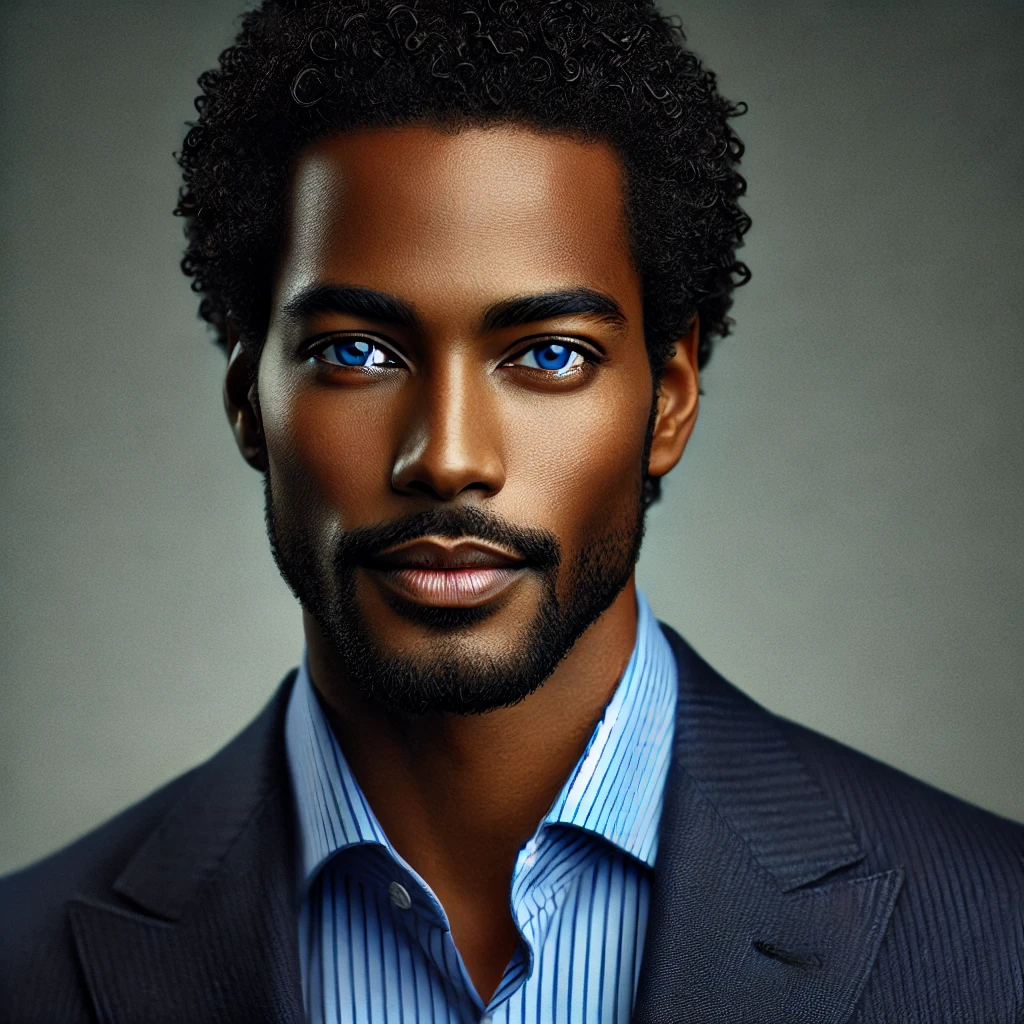
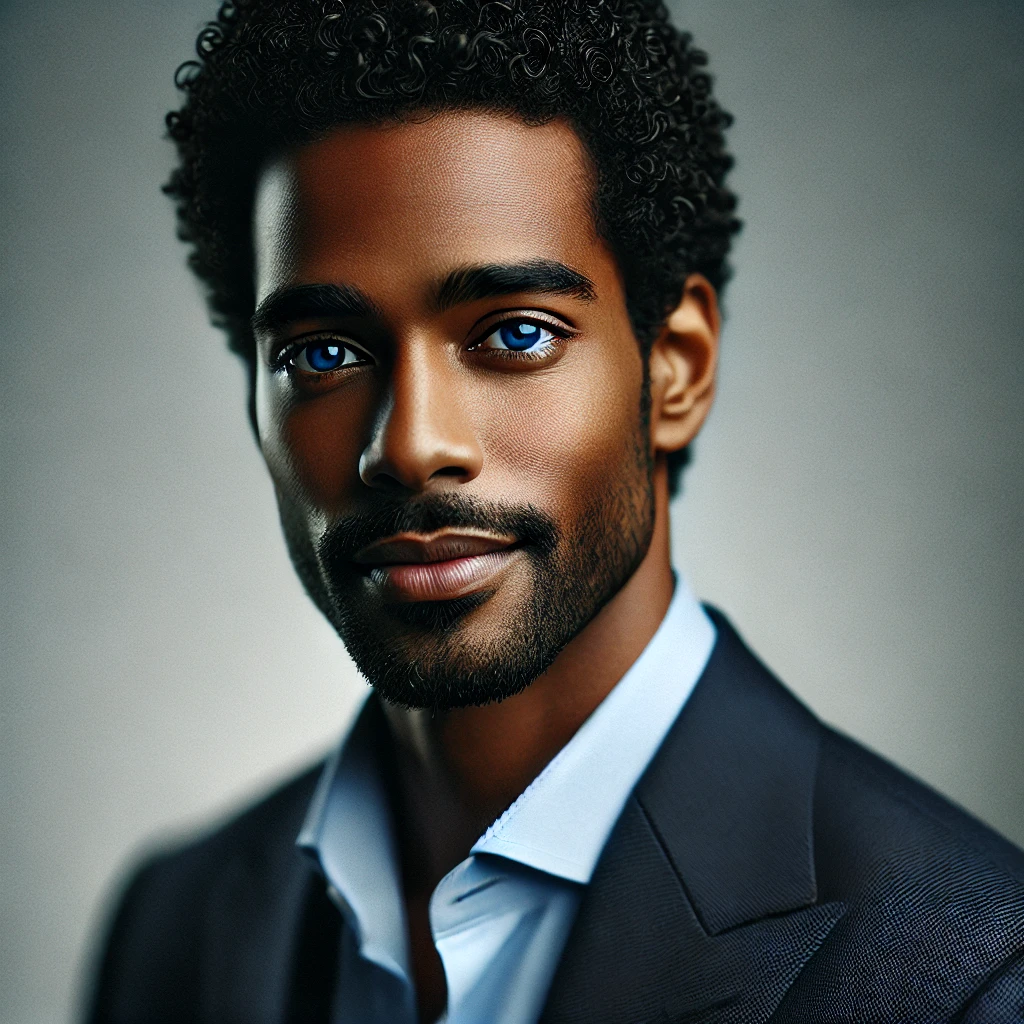
commit new codes

diff --git a/index.html b/index.html
@@ -349,37 +349,80 @@
       <ul class="footer-box-list">
         <li><a href="">CloudNai</a></li>
         <li><a href="">CyberOne</a></li>
-        <li><a href="">CloudNai</a></li>
+        <li><a href="">CloudOne</a></li>
         <li><a href="">Aura AI</a></li>
+        <li><a href="">NAi-X</a></li>
+        <li><a href="">Blog</a></li>
       </ul>
       </div>
       <div class="footer-section" id="footer-section">
-        <button class="footer-box-toggle" aria-expanded="false">Products <i class="fa-solid fa-chevron-down"></i></button>
+        <button class="footer-box-toggle" aria-expanded="false">Store support and legal <i class="fa-solid fa-chevron-down"></i></button>
         <ul class="footer-box-list">
-          <li><a href="">CloudNai</a></li>
-          <li><a href="">CyberOne</a></li>
-          <li><a href="">CloudNai</a></li>
-          <li><a href="">Aura AI</a></li>
+          <li><a href="">Ento Help Center</a></li>
+          <li><a href="">Product Status</a></li>
+          <li><a href="">Privacy Laws</a></li>
+          <li><a href="">Find product demo</a></li>
+          <li><a href="">Legal</a></li>
+          <li><a href="">Ai brain safety</a></li>
+          <li><a href="">Term of sale</a></li>
         </ul>
         </div>
         <div class="footer-section" id="footer-section">
-          <button class="footer-box-toggle" aria-expanded="false">Products <i class="fa-solid fa-chevron-down"></i></button>
+          <button class="footer-box-toggle" aria-expanded="false">Community <i class="fa-solid fa-chevron-down"></i></button>
           <ul class="footer-box-list">
-            <li><a href="">CloudNai</a></li>
-            <li><a href="">CyberOne</a></li>
-            <li><a href="">CloudNai</a></li>
-            <li><a href="">Aura AI</a></li>
+            <li><a href="">Creators</a></li>
+            <li><a href="">Developers</a></li>
+            <li><a href="">Scientists</a></li>
+            <li><a href="">Businesses</a></li>
+            <li><a href="">Charities</a></li>
+            <li><a href="">Made for Ento partner program</a></li>
+            <li><a href="">OmniConnect Media</a></li>
           </ul>
           </div>
           <div class="footer-section" id="footer-section">
-            <button class="footer-box-toggle" aria-expanded="false">Products <i class="fa-solid fa-chevron-down"></i></button>
+            <button class="footer-box-toggle" aria-expanded="false">Our actions <i class="fa-solid fa-chevron-down"></i></button>
             <ul class="footer-box-list">
-              <li><a href="">CloudNai</a></li>
-              <li><a href="">CyberOne</a></li>
-              <li><a href="">CloudNai</a></li>
-              <li><a href="">Aura AI</a></li>
+              <li><a href="">Data and privacy</a></li>
+              <li><a href="">Responsible business pratice</a></li>
             </ul>
           </div>
+          <div class="footer-section" id="footer-section">
+            <button class="footer-box-toggle" aria-expanded="false">About us <i class="fa-solid fa-chevron-down"></i></button>
+            <ul class="footer-box-list">
+              <li><a href="">About Ento</a></li>
+              <li><a href="">Careers</a></li>
+              <li><a href="">Media Gallery</a></li>
+              <li><a href="">Brand recources</a></li>
+              <li><a href="">For investors</a></li>
+              <li><a href="">Patnership</a></li>
+              <li><a href="">Newsroom</a></li>
+            </ul>
+            </div>
+            <div class="footer-section" id="footer-section">
+            <button class="footer-box-toggle" aria-expanded="false">Site terms and policies <i class="fa-solid fa-chevron-down"></i></button>
+            <ul class="footer-box-list">
+            <li><a href="">Community standards</a></li>
+            <li><a href="">Privacy Policy</a></li>
+            <li><a href="">Terms</a></li>
+            <li><a href="">Cookie Policy</a></li>
+            <li><a href="">AI Etichs</a></li>
+            </ul>
+            </div>
+            <div class="footer-section" id="footer-section">
+            <button class="footer-box-toggle" aria-expanded="false">Ento research and technology <i
+            class="fa-solid fa-chevron-down"></i></button>
+              <ul class="footer-box-list">
+                <li><a href="">Ento AI portfolio</a></li>
+                <li><a href="">Ento CyberSecurity</a></li>
+                <li><a href="">Ento Cloud</a></li>
+                <li><a href="">Ento Zero trust</a></li>
+                <li><a href="">NeuroSync Glasses</a></li>
+                <li><a href="">Ento robotics</a></li>
+                <li><a href="">Ento labs</a></li>
+                <li><a href="">Ento Research</a></li>
+                <li><a href="">Ento for Developers</a></li>
+              </ul>
+              </div>
       
       <div class="footer-lang">
         <a href="">English (US)</a>

diff --git a/style.css b/style.css
@@ -1127,7 +1127,8 @@ body.dark-mode .slide.active {
     text-align: left;
     padding-top: 0.7rem;
     padding-bottom: 0.3rem;
-    /* padding: 0.5rem 0; */
+    padding-left: 0rem;
+    padding-right: 0rem;
     display: flex;
     justify-content: space-between;
     align-items: center;
